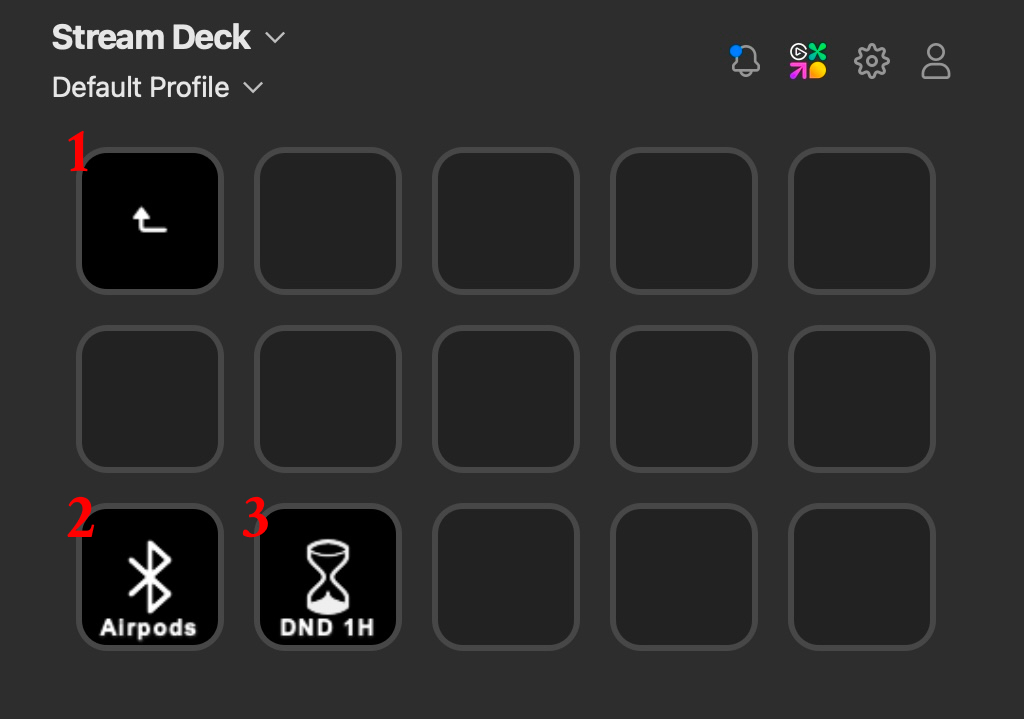
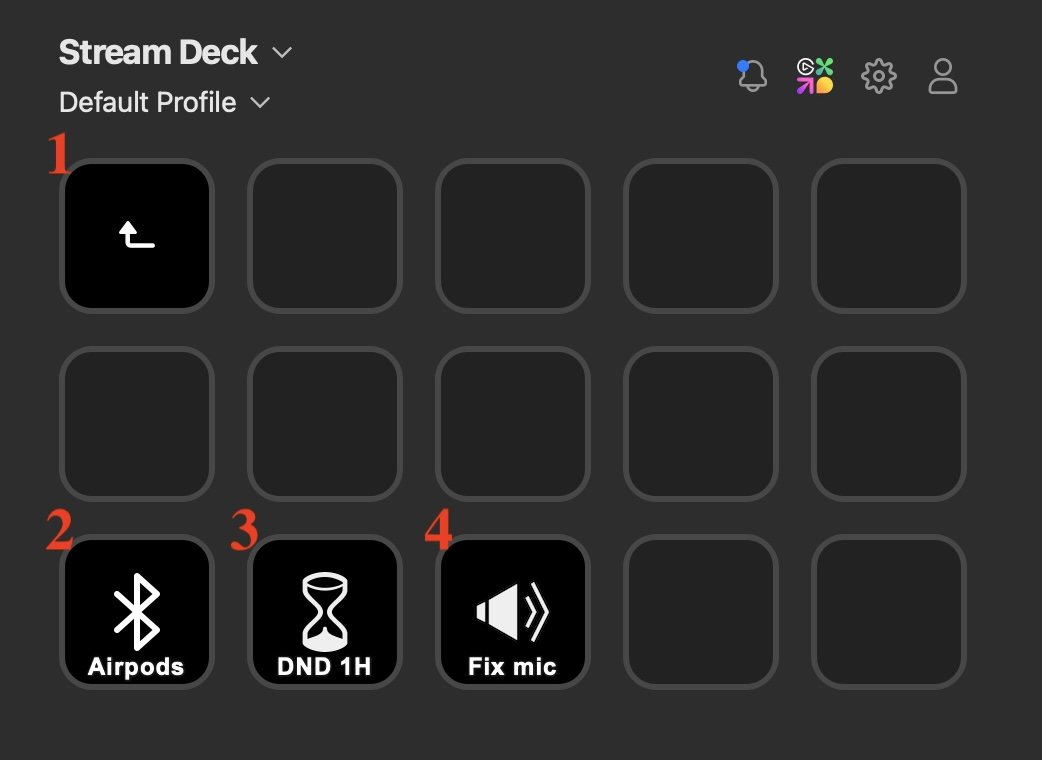
'My stream deck setup' draft

diff --git a/src/drafts/my-stream-deck-setup/index.md b/src/drafts/my-stream-deck-setup/index.md
@@ -1,0 +1,121 @@
+---
+title: My Stream Deck Setup
+description: My setup and some tips and tricks for other MacOS users who want to make the most of their Stream Decks.
+tags: ['Stream Deck', 'Tools']
+date: 2024-02-22
+---
+
+Stream Deck has been on my shopping list for a very long time. First, I was waiting for Black Friday to get a good deal (and you can find some good discounts, so I suggest to wait for a sale if you can). But in the meantime I thought "do I really need Stream Deck for those few things I want to use it for?" So while waiting for a sale, I've decided to [write some macros](<link to the previous article>) and trigger them with keyboard shortcuts. That worked, but as the number of shortcuts grew larger, it was getting harder to quickly remember which shortcut triggered which macro. So finally, during Black Friday sale last year I bought the standard Stream Deck MK.2 with 15 buttons. The idea was to give it a try for a couple of days and see if I can find enough use cases to justify keeping it.
+
+Here are some of my observations and setup that I'm currently using.
+
+## Stream Deck works best on Windows
+
+Windows is the first class citizen when it comes to support for additional plugins. There are some excellent plugins developed by "BarRaider" developer like the "Spotify Integration" or the "Advanced Launcher" with functionality that I wish I could use, but unfortunately they only work on Windows. That's a huge bummer, but I guess most of the Stream Deck users are video games streamers and they use Windows. For MacOS, I could write some macros and connect them to Stream Deck buttons, but it would be even better if I could achieve the same with some easy-to-set-up plugins.
+
+And how well does the Linux application for Stream Deck work? I don't know because it doesn't exist ;) There is no official app for Linux. The best you can do is to use some 3rd party like the [streamdeck-linux-gui](https://github.com/streamdeck-linux-gui/streamdeck-linux-gui) or [write your own software from scratch](https://jridgway.medium.com/using-a-stream-deck-for-productivity-a-software-developers-solution-bf2d819bda84).
+
+## Some tips
+
+**"Smart profiles"** is a very useful functionality that automatically changes the active profile depending on which application is active. I'm using it to display Teams-related actions when Teams window is active. And just to have the option to go out of the smart profile and back home, I always add the "Switch Profile: Default Profile" button in the top left corner. This is useful when the Teams window is active, but I want to perform an action from a different profile.
+
+**Separate button to play/pause Spotify and multimedia**. MacOS is stupid and the system-wide play/pause usually applies to the latest multimedia that was played. Which means that if you have a YouTube video in one of your browser tabs and you forget about it, when you press "play" expecting to start playing music through Spotify you might start playing that video instead. What's even worse - if you preview a video (by pressing space bar in Finder) and then you press the system-wide "play" button, that video magically starts playing in the loop with no way to turn this off (you hear the audio, but there is no window with the video that you can close). That's annoying, so I have two buttons - one for system wide multimedia that can control any video or audio on my computer - YouTube, other videos in the browser, local files and all the apps that can play multimedia (VLC or Spotify). And then I have another button that controls Spotify and nothing else. This setup is not perfect and sometimes I will play different thing than expected, but it makes playing specific multimedia easier.
+
+**Embrace AppleScript** (or AutoHotkey scripts if you're on Windows). If you want to do something even slightly more advanced than starting applications, triggering keyboard shortcuts, or changing a scene in OBS, you will need to write scripts in whatever scripting language is supported on your computer and run those scripts from the Stream Deck. Stream Deck's software is extremely limited out of the box. You can install some plugins to add additional actions, but many of those plugins focus on streamers and not on a general automation of your computer. The best that Stream Deck can do is to execute "multi-command action" that runs a sequence of those basic commands. But if you want to do anything more fancy, you will need to write a script in another tool and use Stream Deck to orchestrate that tool. If you're on Mac, the easiest way to "talk to" other applications is to use AppleScript, which is a scripting language for MacOS. With the [OSA Script](https://marketplace.elgato.com/product/osa-script-be52bc46-c1ae-4e79-8706-013438724839) plugin you can run those AppleScripts directly from Stream Deck.
+
+## Is Stream Deck good for devs with MacBooks?
+
+Stream Deck has some great plugins for streamers - you can easily control the OBS, create giveaways on Twitch or add effects to your live streams. But for a programmer, there is not that much useful stuff out of the box. Apart from controlling the audio input and output, plugins for Teams and Zoom, the rest is kind of *meh*. To get the most out of your device, you will need to plug in external software - AppleScript, Shortcuts, Keyboard Maestro, BetterTouchTool, etc. Then you can execute external scripts and actions from Stream Deck.
+
+The easiest way I found to integrate Stream Deck with an external tool is to assign actions from an external tool to a shortcut and have the Stream Deck execute that shortcut. For example, I can build a complex automation with BetterTouchTool that will perform multiple actions or execute AppleScript programs. Then I assign this automation to a keyboard shortcut that is so complex that there is no way some other application will reuse the same shortcut (and accidentally trigger my action) and I add a "Hotkey" action to Stream Deck that triggers this shortcut.
+
+However, to orchestrate all those external applications or scripts, you don't specifically need the Stream Deck. There are many other devices that you can use instead. You can use a console from their competitor - Loupedeck that offers devices with varying number of additional buttons and knobs. You can buy a MIDI controller and [turn that into a Stream Deck alternative](https://medium.com/@InternetJohnny/make-your-own-elgato-stream-deck-2f211224b498). Or buy a small, numpad keyboard ([there are plenty on Amazon](https://www.amazon.com/Numeric-Keypads/b?ie=UTF8&node=2998471011)) and use an app that lets you assign actions/scripts to specific keys. I'm using the excellent and free [Karabiner elements](https://karabiner-elements.pqrs.org/) to remap keys on different keyboards and then BetterTouchTool to execute different actions when those keys are pressed. Heck, if physical buttons are not a must for you, then even an old tablet or phone can work with an app like the [Touch Portal](https://www.touch-portal.com/).
+
+## My Stream Deck setup
+
+Let's talk about my Stream Deck settings. Here is the setup I settled on after a few months of using it.
+
+{% postImage "default_profile_annotated.jpg", "'Default' profile in Stream Deck's application", '', "Home screen" %}
+
+Home screen ("Default" profile) of my device contains the most often used shortcuts together with buttons to switch to other folders/profiles:
+
+1. Open folder with apps. It contains the most often used applications that I might want to quickly open or switch to.
+2. Open folder with Shortcuts - various automations for my computer.
+3. Toggle the "Search Emoji & Symbols" popup from [Raycast](https://www.raycast.com/changelog/1-29-0). This allows me to quickly search and copy or paste an emoji. I'm using Raycast's emoji picker instead of the MacOS' builtin one, because it has a much nicer interface.
+4. Switch to "Teams" profile. This is useful when Stream Deck doesn't automatically switch the profile when Teams app has focus or when I switch to a different profile during the call and I want to switch back.
+5. Open my most frequently used GitLab repository (it's the main repository of the project I'm currently working on). I don't feel like putting other bookmarks in the Stream Deck, but this one I open often enough that it deserves one of the 15 buttons on the home screen. It comes with the additional benefit that my work-related links use a separate browser, so clicking that button will switch to and focus on the "work browser". I use a free app called [Velja](https://sindresorhus.com/velja) to open certain links (JIRA, Confluence, specific GitLab repositories, etc.) in my "work browser" and other links in another browser.
+6. "Toggle Floating Notes Window" shortcut from Raycast. This [floating note](https://x.com/raycastapp/status/1599070998321471489) stays on top of other windows and works like a sticky note. I use it when I need to quickly take a note of something and with a press of a button I can show or hide it.
+7. Toggle the "Do Not Disturb" [Focus](https://support.apple.com/pl-pl/guide/mac-help/mchl613dc43f/mac) on and off. This disables all the notifications and it's useful when I'm sharing the screen or I need to focus and I want absolutely no distractions.
+8. "Toggle mute" action from the [Audio Mute](https://marketplace.elgato.com/product/audio-mute-705c5433-1e05-4d8a-844f-b5914b7f642f) plugin. As the name suggests, it will mute or unmute my current audio input devices. When my microphone is muted, the icon on this button changes to a crossed microphone. It saves me from having to set up separate mute action for Teams, Zoom or any other videoconferencing app I might be using. It's a one plugin to rule all the mute buttons. The only downside is that with this "system mute" status of my microphone is not reflected in the apps. If I mute my microphone with this button, in a Teams call I still appear as "unmuted". So I have a separate button in my "Teams" profile to toggle mute in Teams app, so everyone can see that I'm muted.
+9. System-wide play/pause button. It will toggle the most recently playing multimedia on my computer.
+10. "Play/Pause" button from the [Spotify (macOS)](https://marketplace.elgato.com/product/spotify-macos-17f49e8b-09a0-4209-95ed-6dee2469f97b) plugin. It controls the playback for the Spotify app.
+11. "Next Track" button for Spotify. It switches to the next song.
+
+{% postImage "apps_folder_annotated.jpg", "'Apps' folder in Stream Deck's application", "", "Apps folder" %}
+
+Pressing the "Apps" button in my "Default" profile opens a new folder (folders and profiles are two main ways to organize different screens on Stream Deck). Here are the most common applications that I use throughout the day: my email, chat aggregator, Teams, Spotify, calendar, etc. Actually each of this app *lives* on a separate desktop of my secondary screen. Pressing one of the buttons will switch the currently active window on that secondary screen. That way I can, for example, switch to my calendar and have a quick glance of my schedule **without moving my mouse from the main screen**. This is extremely convenient and I love how I can easily switch windows on my secondary screen almost without distracting myself from what I'm doing on the main screen.
+
+This folder (and all my other folders) have the "Auto Exit" option enabled and "Exit after" set to "0s", so after pressing one of the buttons, I go back to the home screen.
+
+{% postImage "shortcuts_folder_annotated.jpg", "'Shortcuts' folder in Stream Deck's application", "", "Shortcuts folder" %}
+
+The second button on the home screen opens the "Shortcuts" folder. Here I keep some automations creating with the [Shortcuts](https://support.apple.com/guide/shortcuts-mac/intro-to-shortcuts-apdf22b0444c/mac) and other applications:
+
+1. "Exit" action that goes back to the home screen.
+2. Connect to AirPods. This is useful when I open the computer and it doesn't automatically connect to my headphones.
+3. Turn on "Do Not Disturb" Focus for one hour. This is useful when I need to focus for some time and I don't want to accidentally disable the notifications for the whole day. It happened that at the end of the day I realized that I got some urgent messages and calls that I didn't notice because the DND status was turned on all the time. So I created this shortcut.
+4. "Fix the microphone" shortcut. Sometimes, as I switch between devices or when Teams can't connect to the right headset at the beginning of the meeting, a wrong microphone will be selected (including some virtual devices that actually don't record any audio) and no one can hear me in a call. Instead of trying to figure out how to quickly change the current audio input device (you have to click the "Sound" button on the menu bar **while holding the Option key** to see this option), I have a shortcut that will use the [Audio Switcher](https://marketplace.elgato.com/product/audio-switcher-cf41cd3d-ef80-4122-bef2-7f4fb82fcaac) plugin to set the input to my AirPods.
+
+{% postImage "teams_profile_annotated.jpg", "'Teams' profile in Stream Deck's application", "", "'Teams' profile" %}
+
+The last of my screens contains the "Teams" profile. It's a "Smart profile" and it becomes active when Microsoft Teams app has focus. Here are the actions I have defined:
+
+1. "Navigation: Switch Profile" button that switches the profile back to the default one. I use it when I want to go back to the home screen while keeping the focus in Teams app.
+2. "Toggle Mute" button (the same one as on my home screen). This is useful to see if my microphone is "globally muted" (which is indicated with a crossed microphone icon) and to unmute myself. It happened in the past that I muted my microphone (globally, not in Teams), switched back to a call and I was extremely confused why no one can hear me, even though Teams said I'm not muted.
+3. Various reactions that I can perform during the call.
+4. Toggle the mute/unmute in the Teams application.
+5. Toggle the camera on and off.
+6. Raise hand.
+7. Toggle the blurred background.
+8. Leave the call.
+
+### Plugins
+
+Here are the few plugins that I'm using:
+
+1. [Audio Mute](https://marketplace.elgato.com/product/audio-mute-705c5433-1e05-4d8a-844f-b5914b7f642f) and [Audio Switcher](https://marketplace.elgato.com/product/audio-switcher-cf41cd3d-ef80-4122-bef2-7f4fb82fcaac) , both created by Fred Emmott, for managing the audio inputs.
+2. [Microsoft Teams](https://marketplace.elgato.com/product/microsoft-teams-da5e2bbc-197c-4afe-8a85-a9941bf52697) for all the Teams-related actions.
+3. [Shortcuts](https://marketplace.elgato.com/product/shortcuts-a26342e4-07ac-4222-8735-b44989170aaa) for a "Launch Shortcut" action. It's finicky and sometimes it randomly doesn't work, so I try to use it as little as possible and never for critical actions that I don't know how to do manually in the middle of a video call.
+4. [Spotify (macOS)](https://marketplace.elgato.com/product/spotify-macos-17f49e8b-09a0-4209-95ed-6dee2469f97b) to control Spotify app.
+
+Unfortunately, as I wrote before, Stream Deck application for MacOS doesn't have as many useful plugins as its Windows counterpart does. But a lot of the missing features can be added with external tools.
+
+## My impression a few months later
+
+What's my impression after a couple of months of using Stream Deck? The more time I've spent setting up various actions, the more I had to reach out to external tools. Wanna open a predefined URL in a different browser? You can't do this, because the "Website" action always uses the default browser. Instead, you need to write a one line AppleScript (e.g. `tell application "Firefox" to open location "https://here.goes.your.url.com"`). Wanna bring a specific window to front? Nope, not without a custom script. Wanna turn on the "Do Not Disturb" mode? You guessed it - you need a script or a shortcut!
+
+The best part of getting a Stream Deck was switching from having to remember custom keyboard shortcuts to pressing colorful buttons. Before I bought this device, [I've used keyboard shortcuts to perform different actions](<link to the previous article>). But with custom keyboard shortcuts I often had to think for a moment what was the key combination for the action I wanted to perform. I had less than a dozen shortcuts - all of them with quite intuitive mappings where the first letter of the app I wanted to start or the first letter of the action I want to perform corresponded to the shortcut. For example, `Hyper + o` would open Obsidian app and `Meh + m` would toggle microphone mute/unmute action. But still, when I was in the middle of doing something else, I had to think for a moment how to run a specific shortcut. With Stream Deck, laying literally 5 cm from my keyboard, pressing a button in a complete no-brainer activity. It's essential when I suddenly need to mute myself during a call because I need to cough. It's so much easier to mute the microphone with a physical button that is right next to me than with a keyboard shortcut.
+
+I love the smart profiles - displaying Teams-related buttons when Teams app is active is very cool. I like the physical buttons that I can press without looking. Button in the center has a little bump that you can use to orient yourself - just like with the "F" and "J" keys on a keyboard. I even prefer to use Stream Deck for controlling the music over pressing buttons on my headphones. For the first week after I got it, almost every day I had a new idea of what can be automated with this device.
+
+Is a device like this necessary for a developer? Well, it really shines when it comes to streaming. During the live stream you can't switch to a keyboard and start typing commands. But for me, it's a gimmick. I can live without it and only use the keyboard (which I do when traveling - I'm not carrying Stream Deck with me). But I like this gimmick and even after the "novelty factor" wore off, I rely on it for many small actions during the day.
+
+I see that [BetterTouchTool has a support for Stream Deck](https://docs.folivora.ai/docs/1300_stream_deck.html) with additional features that I miss (mostly - having different actions performed depending if I tap a button or press it for longer). Maybe one day I will switch from using the Elgato's software completely to managing my Stream Deck with BTT.
+
+If you're looking for some inspiration what else you can do with a Stream Deck, here are some good reddit threads:
+
+- [If you own/want to own a Stream Deck, what do you use it for?](https://www.reddit.com/r/Twitch/comments/sok2cg/if_you_ownwant_to_own_a_stream_deck_what_do_you/)
+- [Favorite Stream Deck Uses?](https://www.reddit.com/r/Twitch/comments/ue615c/favorite_stream_deck_uses/])
+- [What’s some good uses for a stream deck?](https://www.reddit.com/r/elgato/comments/r3bshk/whats_some_good_uses_for_a_stream_deck/)
+
+Last, but not least - the most important question of every hardware review out there. Can it run Doom? [Yes, it can](https://www.youtube.com/watch?v=QES0o0m--zc).
+
+## TODO:
+
+* replace curly quotes (‘ , ’, “, ”)with straight quotes (https://typographyforlawyers.com/straight-and-curly-quotes.html) "replace curly quotes command"
+* capitalize title (https://capitalizemytitle.com/)
+* update title
+* update description
+* update tags
+* add "similar" list
+* find hero image
